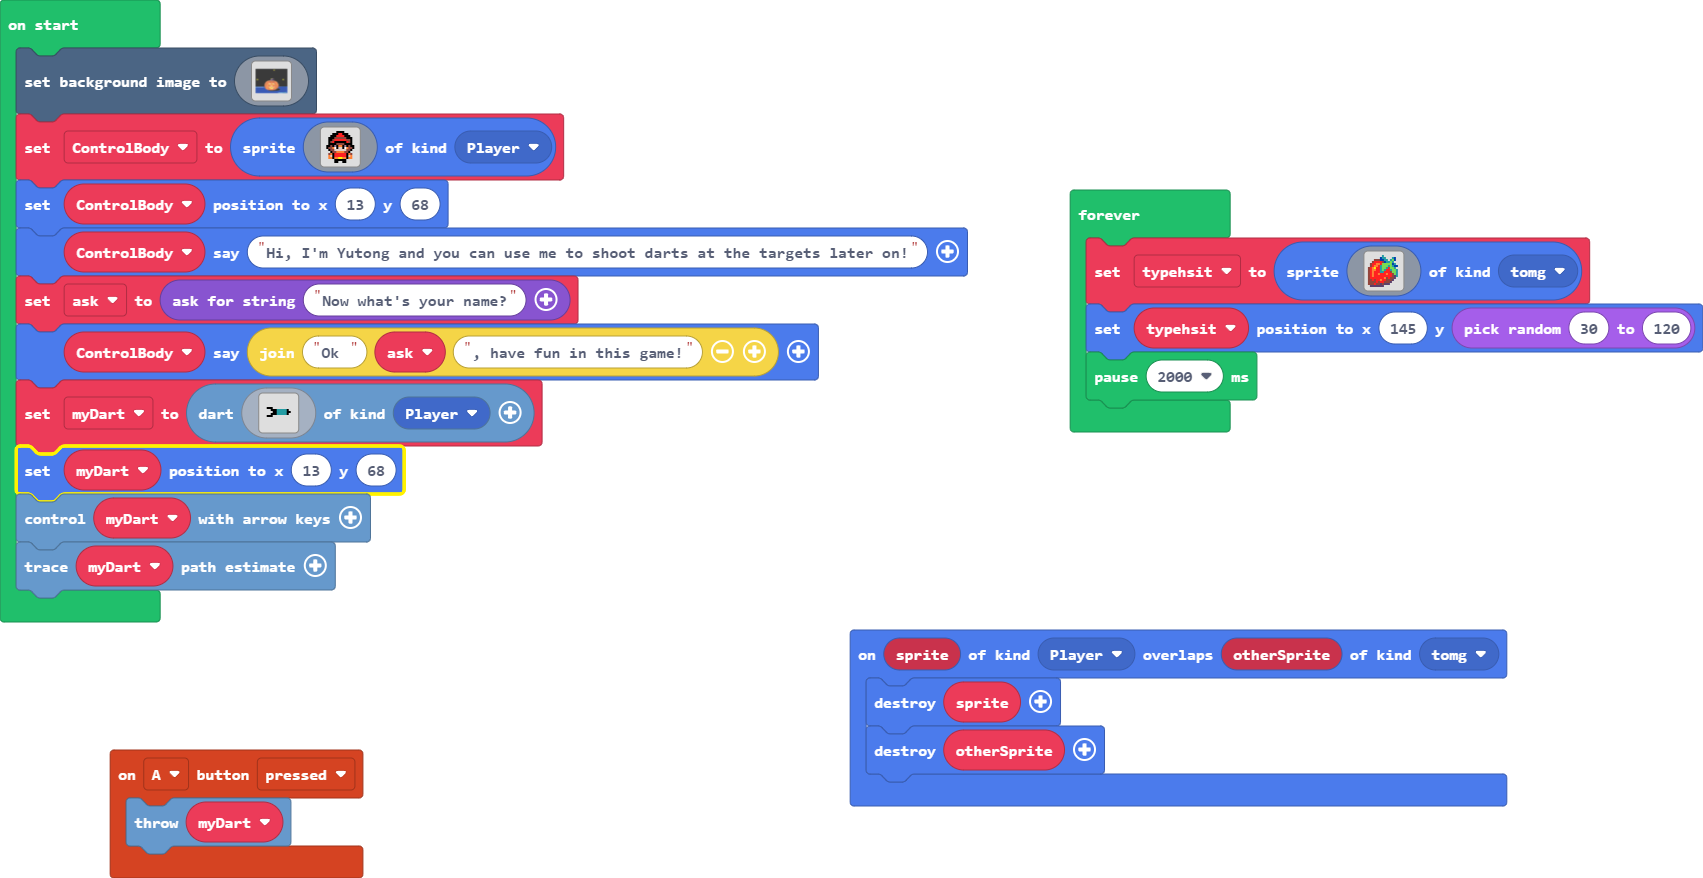
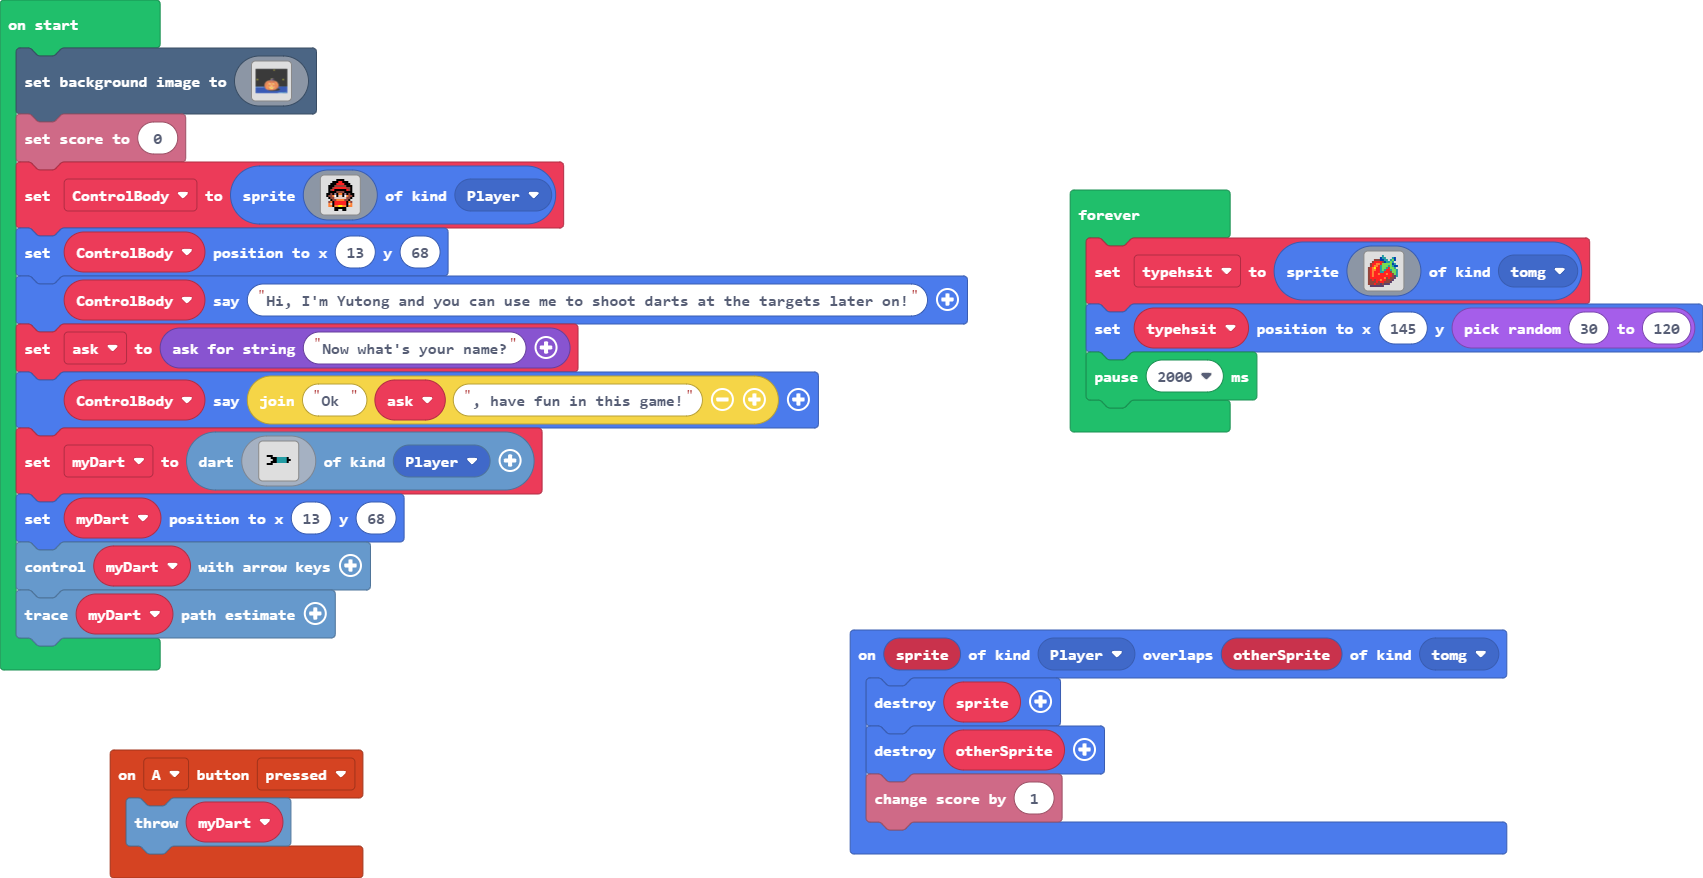
Added score

Changed region(s): [[0.0, 0.123, 0.5913, 0.7688], [0.4979, 0.861, 0.9025, 0.9841]]

diff --git a/main.ts b/main.ts
@@ -7,6 +7,7 @@ controller.A.onEvent(ControllerButtonEvent.Pressed, function () {
 sprites.onOverlap(SpriteKind.Player, SpriteKind.tomg, function (sprite, otherSprite) {
     sprites.destroy(sprite)
     sprites.destroy(otherSprite)
+    info.changeScoreBy(1)
 })
 let typehsit: Sprite = null
 let myDart: Dart = null
@@ -132,6 +133,7 @@ scene.setBackgroundImage(img`
     8888888888888888888888888888888888888888888888888888888888888888888888888888888888888888888888888888888888888888889999999999999999999999966666666666666688888888
     8888888888888888888888888888888888888888888888888888888888888888888888888888888888888888888888888888888888888888888888888888888888888888888888888888888888888888
     `)
+info.setScore(0)
 let ControlBody = sprites.create(img`
     . . . . . . f f f f . . . . . . 
     . . . . f f f 2 2 f f f . . . . 
